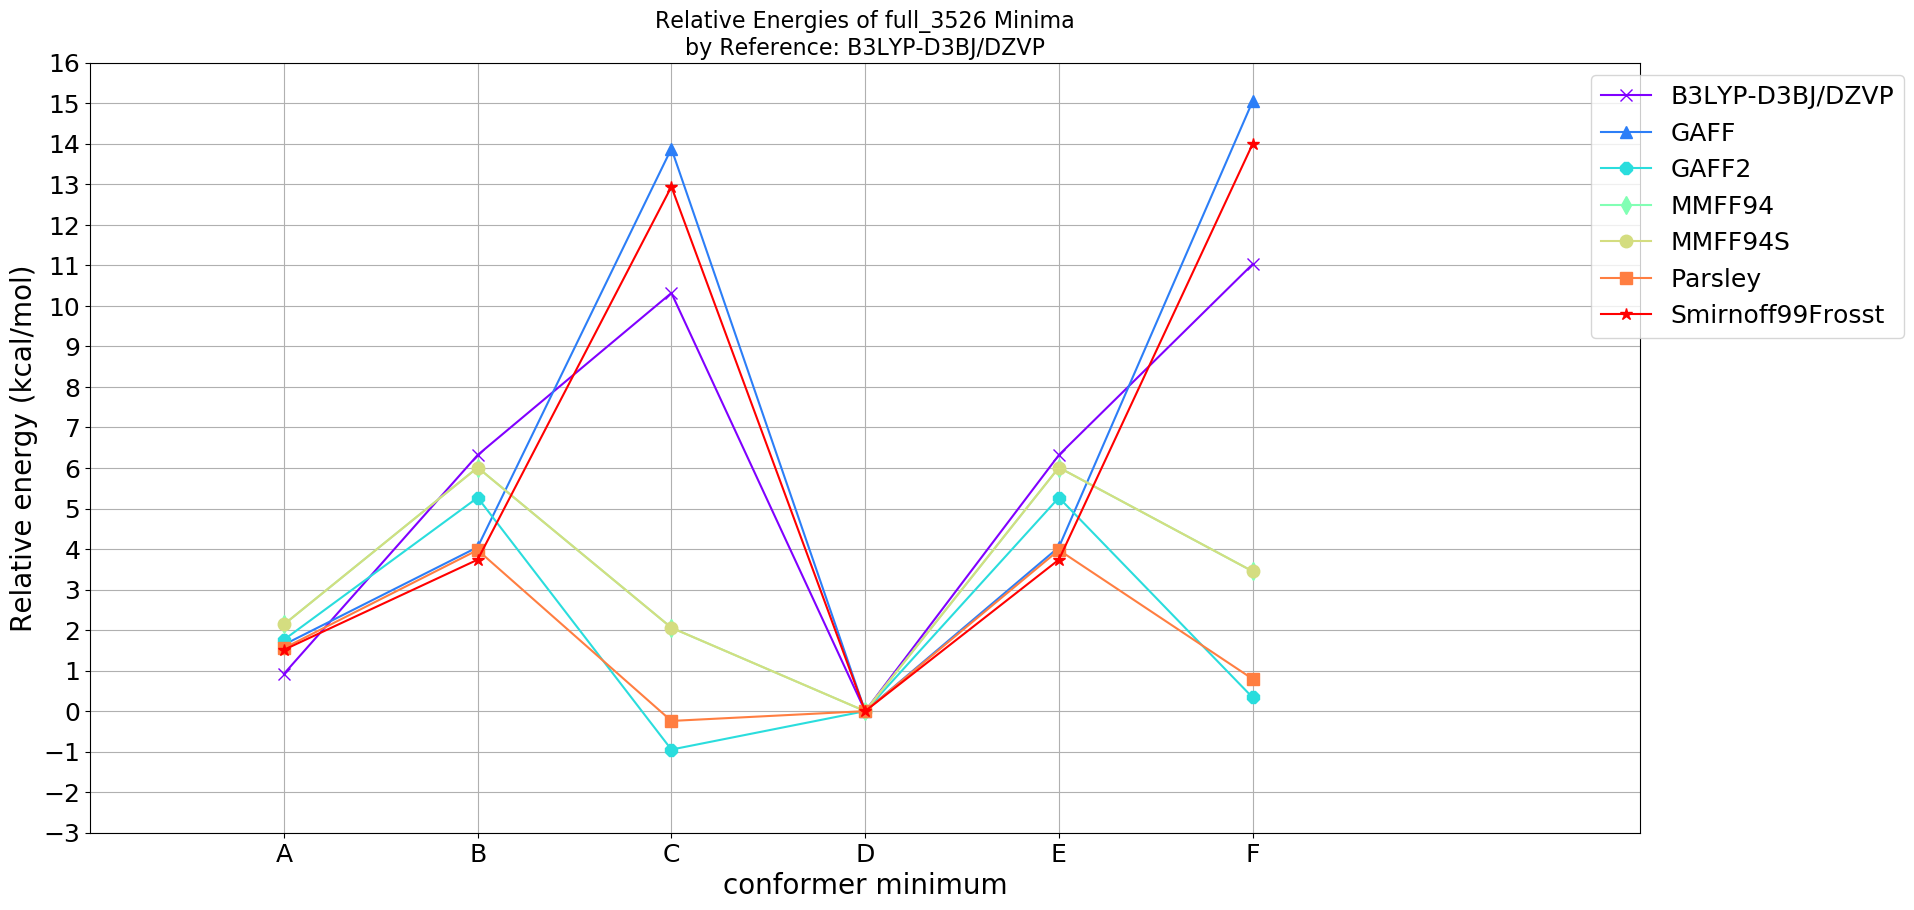
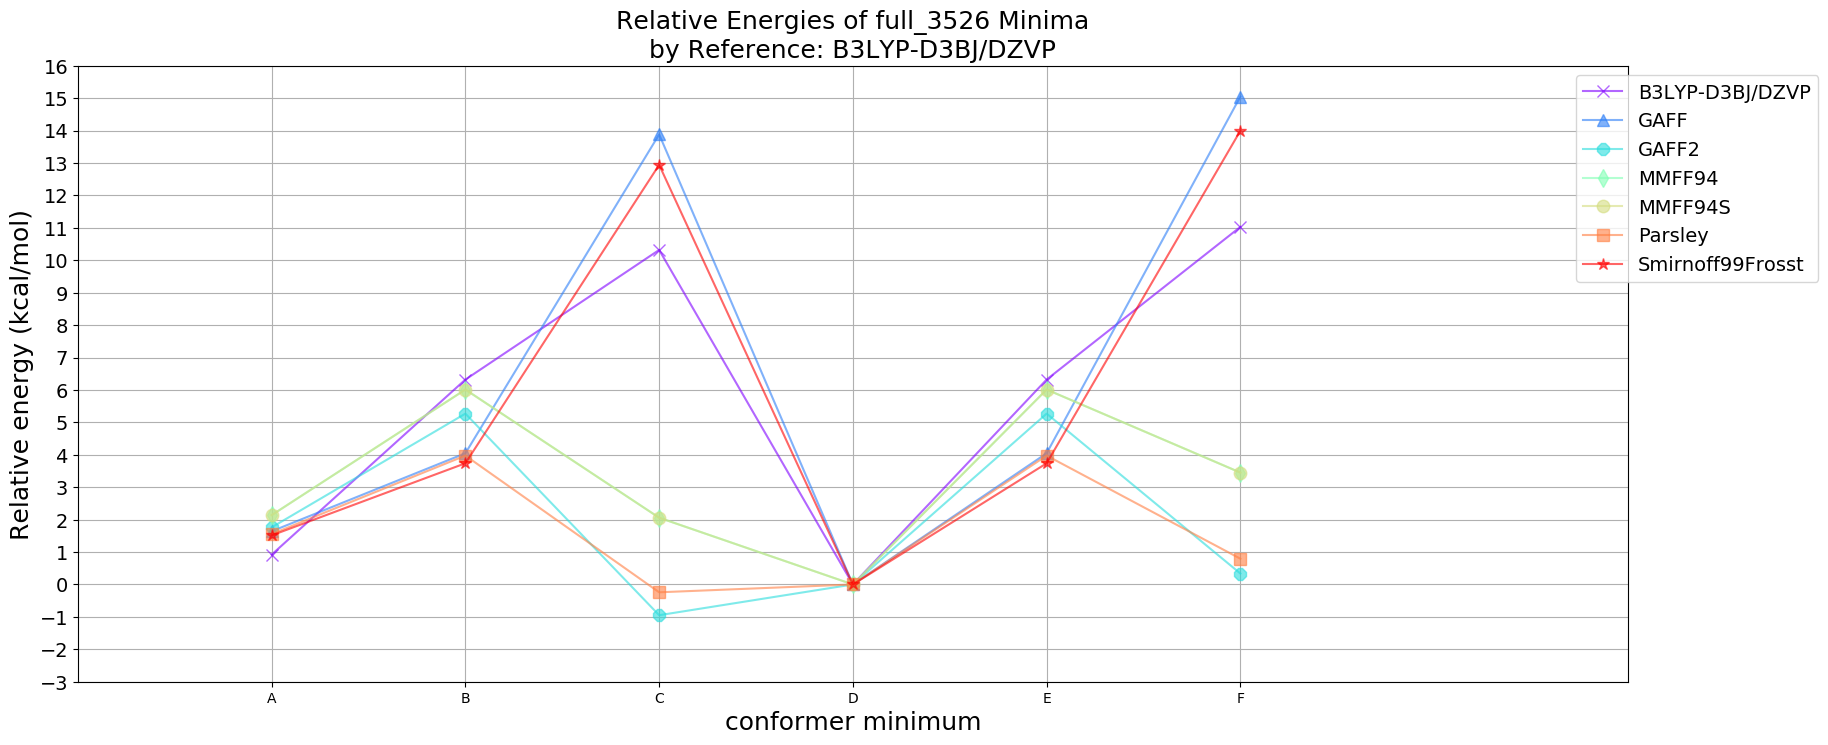
add paper/talk flags for match_minima, also alpha markers

diff --git a/03_analysis/match_minima.py b/03_analysis/match_minima.py
@@ -75,7 +75,7 @@ def compare_two_mols(rmol, qmol, rmsd_cutoff):
     return molIndices
 
 
-def plot_mol_rmses(mol_name, rmses, xticklabels, eff_nconfs, ref_nconfs):
+def plot_mol_rmses(mol_name, rmses, xticklabels, eff_nconfs, ref_nconfs, what_for='talk'):
     """
     Generate bar plot of RMSEs of conformer energies for this molecule of
     all methods compared to reference method.
@@ -98,6 +98,9 @@ def plot_mol_rmses(mol_name, rmses, xticklabels, eff_nconfs, ref_nconfs):
         same format and length as rmses
     ref_nconfs : int
         number of conformers in the reference method
+    what_for : string
+        dictates figure size, text size of axis labels, legend, etc.
+        "paper" or "talk"
 
     """
 
@@ -109,11 +112,20 @@ def plot_mol_rmses(mol_name, rmses, xticklabels, eff_nconfs, ref_nconfs):
     # define x locations by integer number of methods
     x_locs = list(range(len(xticklabels)))
 
+    if what_for == 'paper':
+        fig = plt.gcf()
+        fig.set_size_inches(4, 3)
+        large_font = 14
+        small_font = 10
+    elif what_for == 'talk':
+        large_font = 18
+        small_font = 16
+
     # label figure; label xticks before plot for better spacing
-    plt.title(plttitle, fontsize=20)
-    plt.ylabel(ylabel, fontsize=18)
-    plt.xticks(x_locs, xticklabels, fontsize=14, rotation=-30, ha='left')
-    plt.yticks(fontsize=14)
+    plt.title(plttitle, fontsize=large_font)
+    plt.ylabel(ylabel, fontsize=large_font)
+    plt.xticks(x_locs, xticklabels, fontsize=small_font, rotation=-30, ha='left')
+    plt.yticks(fontsize=small_font)
 
     # define custom colors here if desired
     #colors = ['tab:blue']*len(xticklabels)
@@ -130,8 +142,8 @@ def plot_mol_rmses(mol_name, rmses, xticklabels, eff_nconfs, ref_nconfs):
                 label='reference num confs')
 
     # format line graph properties, then add plot legend
-    ax2.set_ylabel('Number of conformers', fontsize=18)
-    ax2.tick_params(axis='y', labelsize=14)
+    ax2.set_ylabel('Number of conformers', fontsize=large_font)
+    ax2.tick_params(axis='y', labelsize=small_font)
     ax2.yaxis.set_ticks(np.arange(min(eff_nconfs)-1, max(eff_nconfs)+2, 1))
     plt.legend()
 
@@ -141,7 +153,7 @@ def plot_mol_rmses(mol_name, rmses, xticklabels, eff_nconfs, ref_nconfs):
     plt.clf()
 
 
-def plot_mol_minima(mol_name, minimaE, legend, selected=None, stag=False):
+def plot_mol_minima(mol_name, minimaE, legend, what_for='talk', selected=None):
     """
     Generate line plot of conformer energies of all methods (single molecule).
 
@@ -153,12 +165,11 @@ def plot_mol_minima(mol_name, minimaE, legend, selected=None, stag=False):
         minimaE[i][j] represents ith method and jth conformer energy
     legend : list
         list of strings with all method names in same order as minimaE
+    what_for : string
+        dictates figure size, text size of axis labels, legend, etc.
+        "paper" or "talk"
     selected : list
         list of indices for methods to be plotted; e.g., [0], [0, 4]
-    stag : Boolean
-        True to stagger plots to see line trends (in case they all overlap);
-        works best with few (<4?) different methods;
-        be wary of using this option when comparing energy distributions
 
     """
 
@@ -171,14 +182,6 @@ def plot_mol_minima(mol_name, minimaE, legend, selected=None, stag=False):
     flatten = [item for sublist in minimaE for item in sublist]
     floor = min(flatten)
     ceiling = max(flatten)
-
-    # stagger each of the methods for ease of viewing
-    if stag == True:
-        tempMinimaE = []
-        for i, file_ene in enumerate(minimaE):
-            tempMinimaE.append([x + i / 2. for x in file_ene])
-        minimaE = tempMinimaE
-        ceiling = ceiling + num_files
 
     # set figure-related labels
     plttitle = f"Relative Energies of {mol_name} Minima"
@@ -194,17 +197,29 @@ def plot_mol_minima(mol_name, minimaE, legend, selected=None, stag=False):
     # xticks by numbers instead
     #xlabs = range(len(minimaE[0]))
 
+    if what_for == 'paper':
+        fig = plt.figure(figsize=(7.5, 3))
+        large_font = 12
+        small_font = 10
+        xaxis_font = 6
+        mark_size = 5
+    elif what_for == 'talk':
+        fig = plt.figure(figsize=(20, 8))
+        large_font = 18
+        small_font = 14
+        xaxis_font = 10
+        mark_size = 9
+
     # create figure
-    fig = plt.figure(figsize=(20, 10))
     ax = fig.gca()
     ax.set_xticks(np.arange(-1, ref_nconfs + 1, 2))
 
     # label figure; label xticks before plotting for better spacing.
-    plt.title(plttitle, fontsize=16)
-    plt.ylabel(ylabel, fontsize=20)
-    plt.xlabel("conformer minimum", fontsize=20)
-    plt.xticks(list(range(ref_nconfs)), xlabs, fontsize=18)
-    plt.yticks(fontsize=18)
+    plt.title(plttitle, fontsize=large_font)
+    plt.ylabel(ylabel, fontsize=large_font)
+    plt.xlabel("conformer minimum", fontsize=large_font)
+    plt.xticks(list(range(ref_nconfs)), xlabs, fontsize=xaxis_font)
+    plt.yticks(fontsize=small_font)
 
     # define line colors and markers
     colors = mpl.cm.rainbow(np.linspace(0, 1, num_files))
@@ -224,10 +239,10 @@ def plot_mol_minima(mol_name, minimaE, legend, selected=None, stag=False):
 
         # generate plot
         plt.plot(xi, file_ene, color=colors[i], label=legend[i],
-            marker=markers[i], markersize=9)
+            marker=markers[i], markersize=mark_size, alpha=0.6)
 
     # add legend, set plot limits, add grid
-    plt.legend(bbox_to_anchor=(0.96, 1), loc=2, prop={'size': 18})
+    plt.legend(bbox_to_anchor=(0.96, 1), loc=2, prop={'size': small_font})
     plt.xlim(-1, ref_nconfs + 1)
     ax.set_yticks(
         np.arange(int(round(floor)) - 2,
@@ -689,7 +704,7 @@ def main(in_dict, readpickle, plot, rmsd_cutoff):
             # only plot for single molecule by name
             #if mol_name != 'AlkEthOH_c1178': continue
 
-            plot_mol_minima(mol_name, rel_energies[i], ff_list)
+            plot_mol_minima(mol_name, rel_energies[i], ff_list, 'talk')
 
             # only plot selected methods by index
             #plot_mol_minima(mol_name, rel_energies[i], ff_list, selected=[0])
@@ -697,7 +712,7 @@ def main(in_dict, readpickle, plot, rmsd_cutoff):
             # plot RMSE bars -- don't plot reference which is 0 rmse to self
             ref_nconfs = eff_nconfs[i][0]
             plot_mol_rmses(mol_name, rms_array[i][1:], ff_list[1:],
-                           eff_nconfs[i][1:], ref_nconfs)
+                           eff_nconfs[i][1:], ref_nconfs, 'talk')
 
 
 
